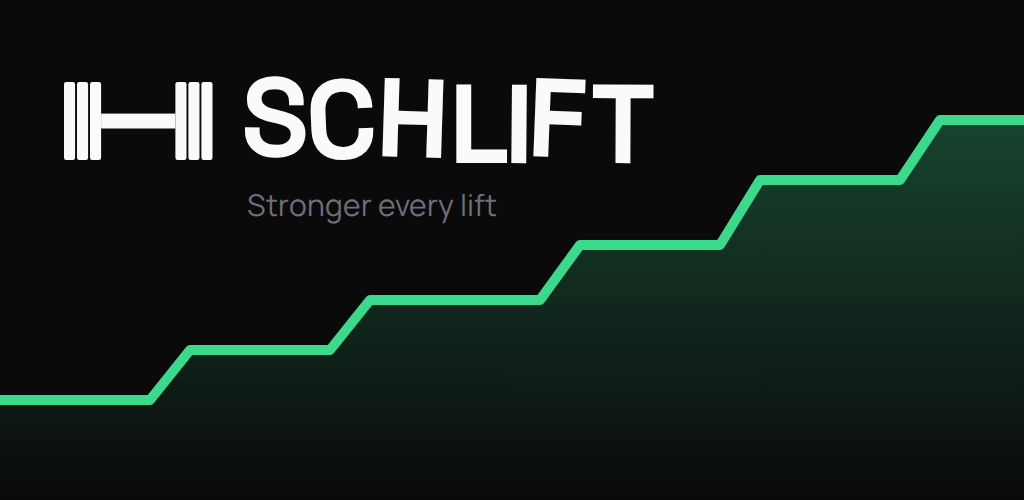
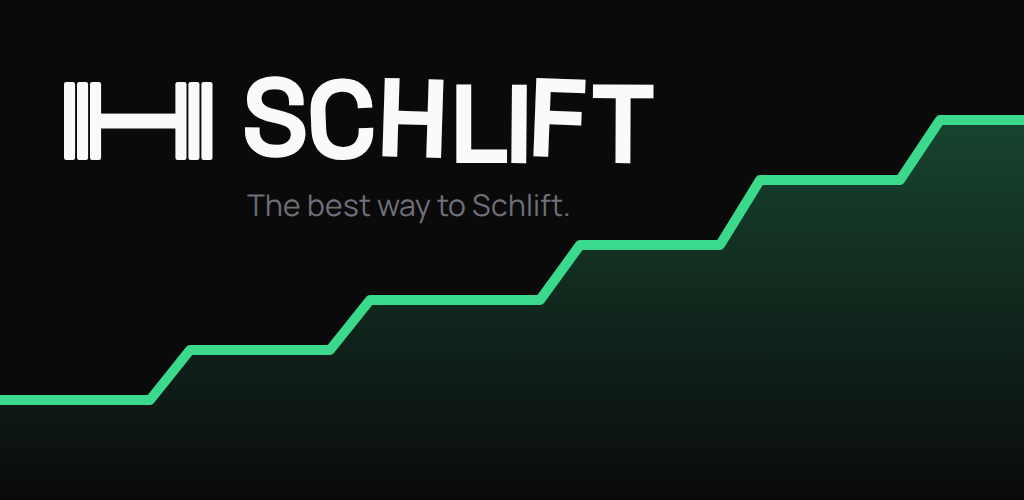
store: one tagline field; Play one-liner derived; new listing copy; seamless barbell
tagline replaces subtitle, short_description and feature_graphic_byline;
Play's short description is tagline + promotional_text (checked ≤80).
Listing copy and slide captions rewritten by the owner. Feature graphic
re-rendered with the tagline and the bar running under the plates.

Changed region(s): [[0.2188, 0.39, 0.5625, 0.45]]

diff --git a/scripts/check_store_text.py b/scripts/check_store_text.py
@@ -19,14 +19,20 @@ RAW_DIR = ROOT / "store" / "screenshots" / "raw"
 # field -> (limit, which stores read it)
 LIMITS = {
     "name": (30, "both"),
-    "subtitle": (30, "App Store"),
-    "short_description": (80, "Play"),
-    "promotional_text": (170, "App Store"),
+    "tagline": (30, "App Store subtitle, feature graphic byline, Play one-liner"),
+    "promotional_text": (170, "App Store promo, Play one-liner"),
     "keywords": (100, "App Store"),
     "description": (4000, "both"),
 }
+PLAY_SHORT_LIMIT = 80
+RETIRED = ("subtitle", "short_description", "feature_graphic_byline")
 CAPTION_TITLE_LIMIT = 28
-CAPTION_SUBTITLE_LIMIT = 64
+CAPTION_SUBTITLE_LIMIT = 80
+
+
+def play_short_description(listing: dict) -> str:
+    """Play's one-liner: the tagline and the promotional text, one sentence after the other."""
+    return f"{str(listing.get('tagline', '')).strip()} {str(listing.get('promotional_text', '')).strip()}".strip()
 
 
 def load_listing(path: Path = LISTING) -> dict:
@@ -46,6 +52,13 @@ def check(listing: dict, raw_dir: Path = RAW_DIR) -> list[str]:
             problems.append(f"{field}: {len(text)} characters, {store} allows {limit}")
         if field == "keywords" and " ," in text:
             problems.append("keywords: remove the space before a comma; it counts against the 100")
+
+    for field in RETIRED:
+        if field in listing:
+            problems.append(f"{field}: retired; the tagline field now covers it")
+    short = play_short_description(listing)
+    if len(short) > PLAY_SHORT_LIMIT:
+        problems.append(f"tagline + promotional_text: {len(short)} characters; Play's one-liner allows {PLAY_SHORT_LIMIT}")
 
     slides = listing.get("screenshots") or []
     if not 2 <= len(slides) <= 8:
@@ -87,6 +100,7 @@ def main() -> int:
         listing = load_listing()
         for field, (limit, store) in LIMITS.items():
             print(f"ok  {field}: {len(listing[field].strip())}/{limit} ({store})")
+        print(f"ok  Play one-liner: {len(play_short_description(listing))}/{PLAY_SHORT_LIMIT}")
         print(f"ok  {len(listing.get('screenshots') or [])} screenshot slides")
     return 1 if problems else 0
 

diff --git a/scripts/render_brand.py b/scripts/render_brand.py
@@ -206,7 +206,9 @@ def barbell(x: float, top: float, height: float, fill: str) -> str:
     k = height / 42.0  # plates run from unit 33 to 75
     def r(u0, v0, u1, v1, rx=0.0):
         return f'<rect x="{x + (u0 - 14) * k:.1f}" y="{top + (v0 - 33) * k:.1f}" width="{(u1 - u0) * k:.1f}" height="{(v1 - v0) * k:.1f}" rx="{rx * k:.1f}" fill="{fill}"/>'
-    parts = [r(14, 33, 20, 75, 1.2), r(21, 33, 27, 75, 1.2), r(28, 33, 34, 75, 1.2), r(34, 50, 74, 58), r(74, 33, 80, 75, 1.2), r(81, 33, 87, 75, 1.2), r(88, 33, 94, 75, 1.2)]
+    # The bar runs on under the inner plates so the joins are solid ink, not
+    # two anti-aliased edges meeting.
+    parts = [r(30, 50, 78, 58), r(14, 33, 20, 75, 1.2), r(21, 33, 27, 75, 1.2), r(28, 33, 34, 75, 1.2), r(74, 33, 80, 75, 1.2), r(81, 33, 87, 75, 1.2), r(88, 33, 94, 75, 1.2)]
     return "".join(parts)
 
 
@@ -224,7 +226,7 @@ def feature_staircase() -> str:
     cap_h, baseline = 78, 160
     bar_w = 80 * (cap_h / 42.0)
     text_x = 64 + bar_w + 30
-    byline = listing_text("feature_graphic_byline", "Stronger every lift")
+    byline = listing_text("tagline", "The best way to Schlift.")
     return f"""
 <defs>
   <linearGradient id="a" x1="0" y1="0" x2="0" y2="1"><stop offset="0" stop-color="{GREEN}" stop-opacity="0.28"/><stop offset="1" stop-color="{GREEN}" stop-opacity="0"/></linearGradient>

diff --git a/scripts/store_listing_google_play.py b/scripts/store_listing_google_play.py
@@ -30,7 +30,7 @@ from googleapiclient.http import MediaFileUpload
 
 import httplib2
 
-from check_store_text import LIMITS, check, load_listing  # noqa: E402  (sibling script)
+from check_store_text import LIMITS, check, load_listing, play_short_description  # noqa: E402  (sibling script)
 from upload_google_play import (  # noqa: E402
     ANDROID_PUBLISHER_SCOPE,
     commit_edit,
@@ -106,7 +106,7 @@ def push(publisher, package: str, edit_id: str, listing: dict, skip_images: bool
             body={
                 "language": language,
                 "title": listing["name"].strip(),
-                "shortDescription": listing["short_description"].strip(),
+                "shortDescription": play_short_description(listing),
                 "fullDescription": listing["description"].strip(),
             },
         ).execute()

diff --git a/scripts/store_listing_app_store.py b/scripts/store_listing_app_store.py
@@ -213,7 +213,7 @@ def push_text(asc: AppStoreConnect, app_id: str, version: dict, listing: dict) -
                     "data": {
                         "type": "appInfoLocalizations",
                         "id": loc["id"],
-                        "attributes": {"name": listing["name"].strip(), "subtitle": listing["subtitle"].strip()},
+                        "attributes": {"name": listing["name"].strip(), "subtitle": listing["tagline"].strip()},
                     }
                 },
             )

diff --git a/docs/releasing.md b/docs/releasing.md
@@ -313,11 +313,12 @@ Workflow file: `.github/workflows/store-assets.yml`. It never builds the app.
 It frames committed screenshots and pushes text + images to both stores by
 API, from two committed sources:
 
-- **`store/listing.yaml`** — the single source of listing text. Fields that
-  both stores read (`name`, `description`) appear once; a field only one store
-  has (`subtitle`, `promotional_text`, `keywords` for the App Store;
-  `short_description` for Play) says so in its comment. The same text goes to
-  every language the listing has. Screenshot captions live here too.
+- **`store/listing.yaml`** — the single source of listing text: `name`,
+  `tagline` (App Store subtitle, feature graphic byline, and the first half
+  of Play's one-liner), `promotional_text` (App Store promo; Play's one-liner
+  is tagline + promo, 80 max), `keywords` (App Store), `description` (both).
+  The same text goes to every language the listing has. Screenshot captions
+  live here too.
 - **`store/screenshots/raw/`** — raw captures: `store_NN.png` phone slides
   (1080×2400, dark mode), `wear_*.png` Wear OS captures (384×384),
   `apple_watch_*.png` Apple Watch captures (396×484).
